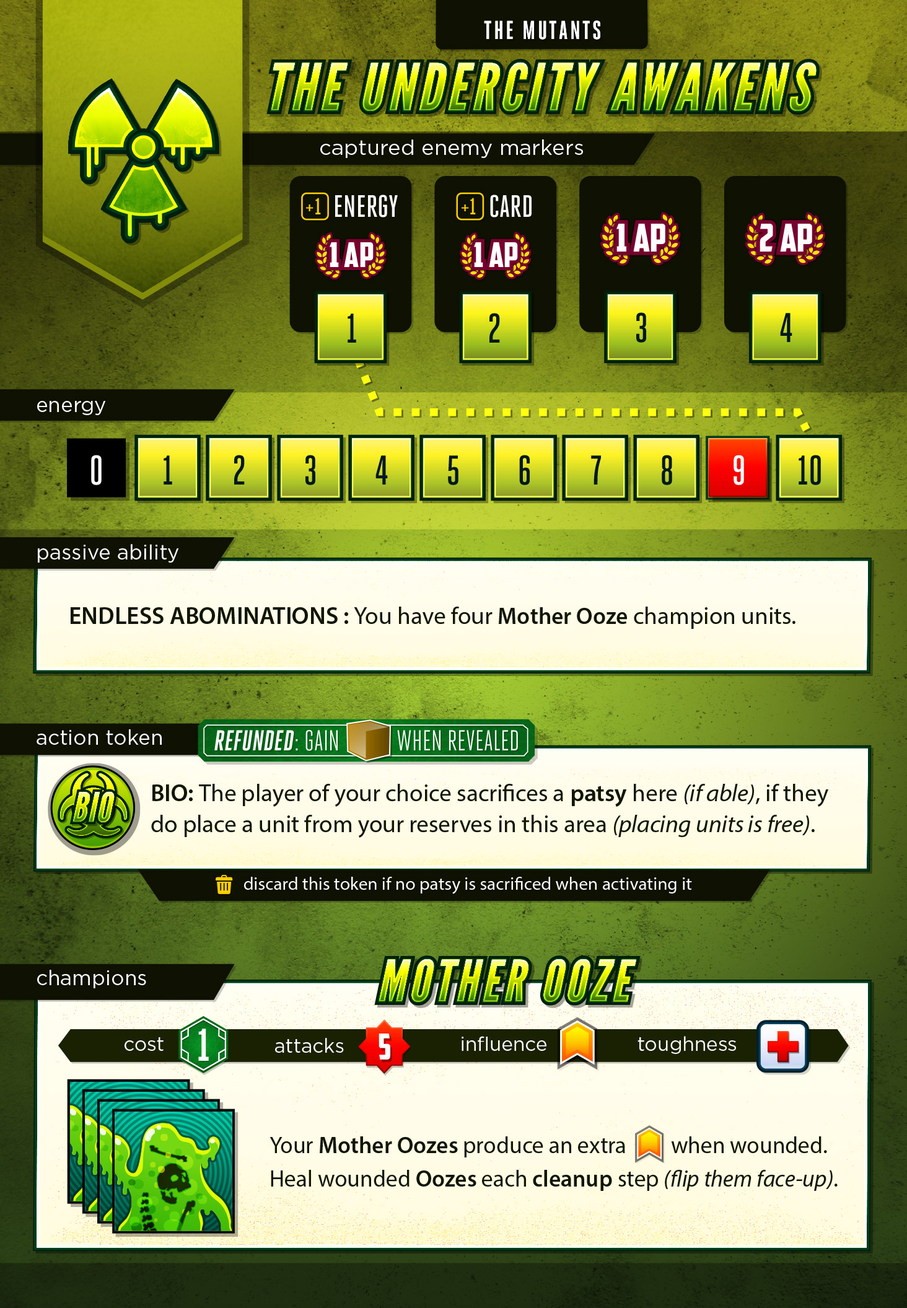
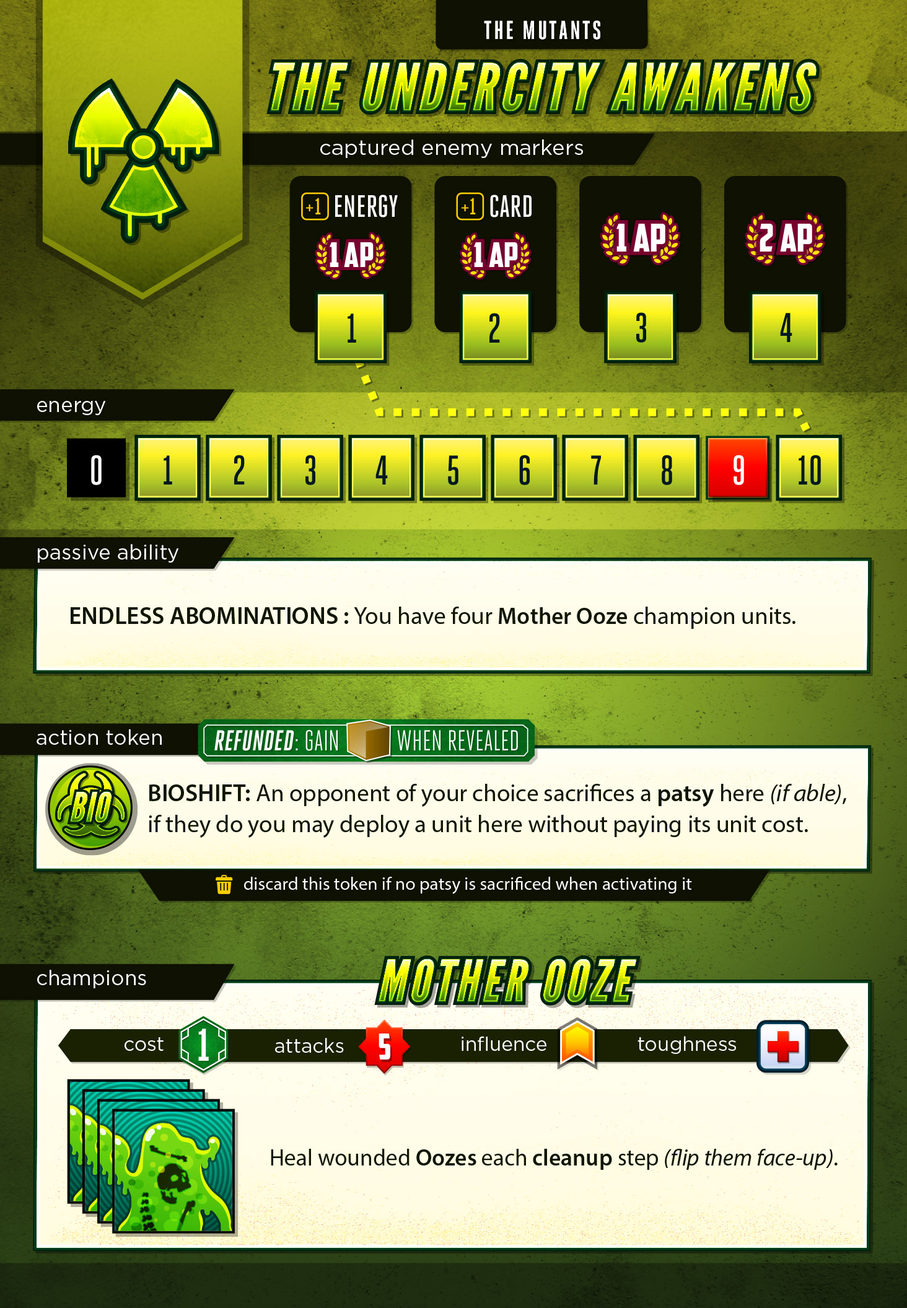
MUTANTS: several small nerfs

Changed region(s): [[0.0307, 0.585, 0.9221, 0.6466], [0.3074, 0.8622, 0.9221, 0.9237]]

diff --git a/server/classes/factions/Mutants.js b/server/classes/factions/Mutants.js
@@ -27,7 +27,7 @@ class Mutants extends Faction {
                 influence: 1,
                 resource: 1,
                 cost : 0,
-                description: "A player of your choice sacrifices a patsy in this area (you may choose yourself), if they do place a unit from your reserves in this area.",
+                description: "An opponent of your choice sacrifices a patsy in this area (if able), if they do you may deploy a unit to this area without paying its unit cost.",
                 req : "this token must be discarded if no player can sacrifice a patsy here"
             }
         };
@@ -36,7 +36,7 @@ class Mutants extends Faction {
         this.units['goon'].count = 6;
         this.units['mole'].count = 6;
         this.units['talent'].count = 4;
-        this.units['patsy'].count = 6;
+        this.units['patsy'].count = 5;
 
         this.units['champion'] = {
             count: 4,
@@ -69,7 +69,7 @@ class Mutants extends Faction {
     }
 
     onOoozeWounded( unit ){
-        unit.influence = 2;
+        //unit.influence = 2;
     }
 
     /**
@@ -131,7 +131,7 @@ class Mutants extends Faction {
      */
     canActivateBiomorph( token, area ) {
         // are there any patsies here?
-        return _.factionsWithUnitsInArea( this.game().data.factions, area, { type : 'patsy' } ).length;
+        return _.factionsWithUnitsInArea( this.game().data.factions, area, { type : 'patsy', exclude : [ this.name ] } ).length;
     }
 
 
@@ -162,30 +162,20 @@ class Mutants extends Faction {
         // kill the chosen unit
         await this.game().killUnit( unit, this );
 
-        const unitTypesInReserves = this.unitTypesInReserves();
+        let options = {
+            area: args.area.name,
+            faction: this,
+            player: this.playerId,
+            free: true,
+            deployLimit: 1,
+        };
 
-        if( !unitTypesInReserves.length ){
-            this.message(`No units in reserves to place`, { class : 'warning' } );
-            return;
+        // deploy the selected unit
+        let output = await this.deploy( options );
+
+        if ( output?.declined ){
+            this.message( `declines to deploy a unit to the ${args.area.name}` );
         }
-
-        // prompt player for global place
-        response = await this.prompt('global-place', {
-            count : 1,
-            area : args.area.name,
-            fromAreas: [],
-            unitTypes: unitTypesInReserves,
-            required: true,
-            message: `Choose a unit from your reserves to place in the ${args.area.name}`,
-        });
-
-        let ourUnit = this.game().objectMap[ response.units[0] ];
-        await this.placeUnit( ourUnit, args.area.name );
-
-        await this.game().timedPrompt('units-shifted', {
-            message: `A Unit was biomorphed`,
-            units: [ourUnit],
-        });
 
         this.game().advancePlayer();
     }
@@ -208,7 +198,7 @@ class Mutants extends Faction {
      */
     async getBiomorphTargetFaction( args ){
         // get the players with patsies in the area
-        let factions = _.factionsWithUnitsInArea( this.game().data.factions, args.area, { type : 'patsy' } );
+        let factions = _.factionsWithUnitsInArea( this.game().data.factions, args.area, { type : 'patsy', exclude : [ this.name ] } );
 
         // abort if we have no options
         if( !factions.length ){
@@ -225,7 +215,7 @@ class Mutants extends Faction {
         let response = await this.prompt( 'choose-victim', {
             areas : [args.area.name],
             faction: this.name,
-            allowSelf : true,
+            allowSelf : false,
             message: 'Choose a player to sacrifice a patsy',
             targetFactions : factions,
         });
@@ -244,23 +234,6 @@ class Mutants extends Faction {
      */
     factionCombatMods( mods, area ){
 
-        // defense mod from biohazard token
-        if( this.hasBiohazardInArea( area ) ){
-            let existingMod = mods.find( mod => mod.type === 'defenseBonus' );
-            if( existingMod ){
-                existingMod.val += 2;
-                existingMod.text = `Enemies suffer -${existingMod.val} to their attack rolls`
-            } else {
-                mods.push( { type : 'defenseBonus', text : `Enemies suffer -2 to their attack rolls`, val : 2 });
-            }
-        }
-
-        // mother ooze heal / deploy
-        if( this.data.units.find( unit => _.unitInArea( unit, area, { type : 'champion' } ) ) ){
-            mods.push( { type : 'motherOoze', text : `Wounded Mother Ooozes heal and spawn new units at the end of the turn` });
-        }
-
-        return mods;
     }
 }
 
